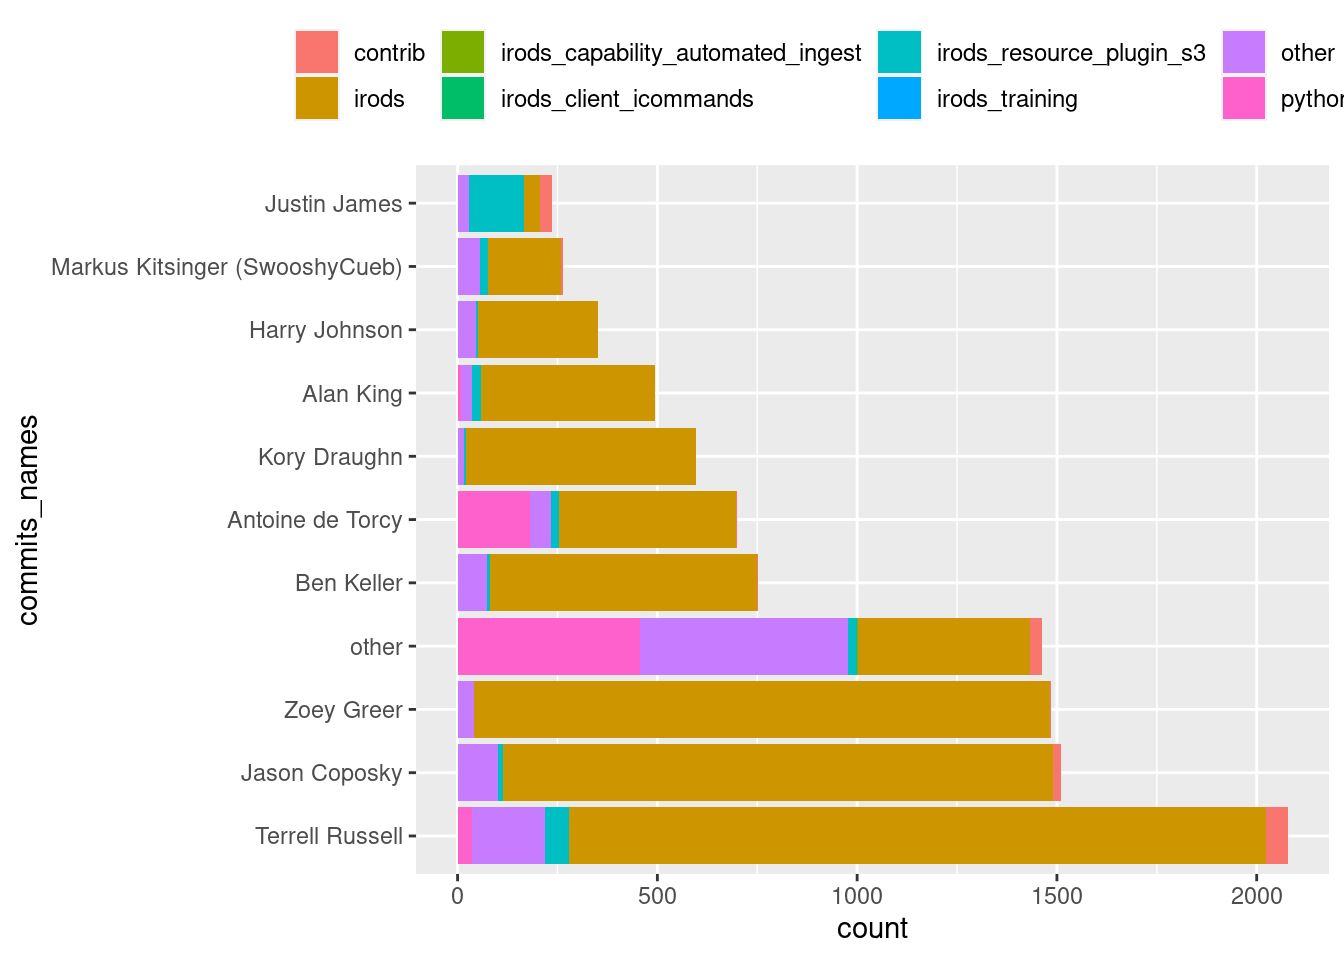
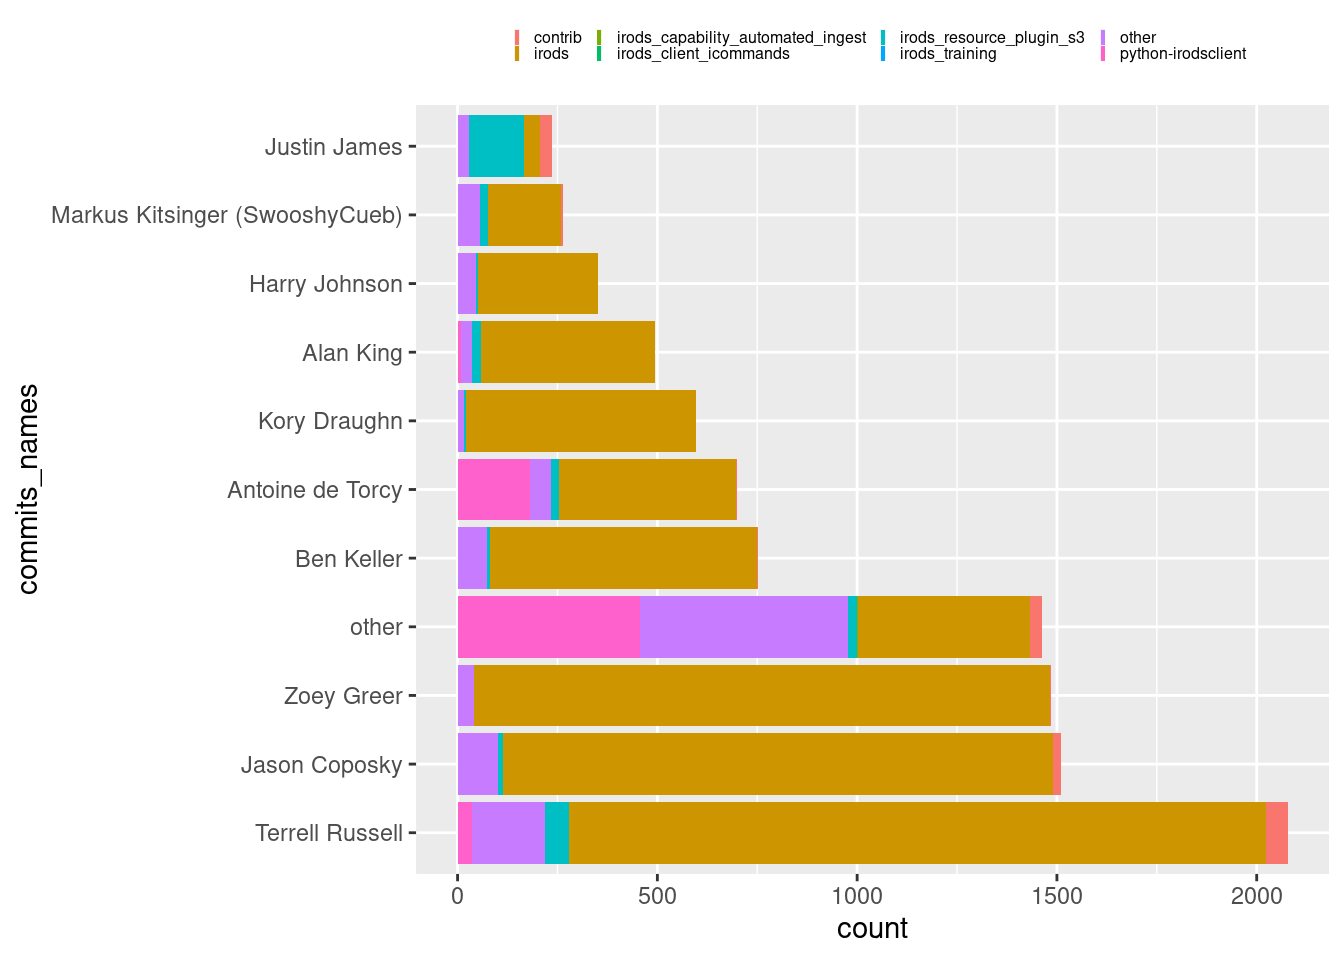
Built site for gh-pages

diff --git a/posts/welcome/index.html b/posts/welcome/index.html
@@ -257,14 +257,17 @@ iauth("martin", "secret")</code></pre>
 <p>This makes the data discoverable by others on the iRODS server. Hence <code>rirods</code> not only helps you store data, but it also makes sharing data with your peers more straightforward.</p>
 <p>As it seems you were not yet done with your analysis of the commit history of iRODS. You put considerable effort in creating an informative plot, which lists commits according to most popular repositories.</p>
 <div class="cell">
-<div class="sourceCode cell-code" id="cb9"><pre class="sourceCode r code-with-copy"><code class="sourceCode r"><span id="cb9-1"><a href="#cb9-1" aria-hidden="true" tabindex="-1"></a>plot_commits <span class="ot">&lt;-</span> commits <span class="sc">|&gt;</span> </span>
-<span id="cb9-2"><a href="#cb9-2" aria-hidden="true" tabindex="-1"></a>  <span class="fu">mutate</span>(</span>
-<span id="cb9-3"><a href="#cb9-3" aria-hidden="true" tabindex="-1"></a>    <span class="at">names =</span> <span class="fu">if_else</span>(stargazers_count <span class="sc">&gt;</span> <span class="dv">10</span>, names, <span class="st">"other"</span>)</span>
-<span id="cb9-4"><a href="#cb9-4" aria-hidden="true" tabindex="-1"></a>  ) <span class="sc">|&gt;</span> </span>
-<span id="cb9-5"><a href="#cb9-5" aria-hidden="true" tabindex="-1"></a>    <span class="fu">ggplot</span>(<span class="fu">aes</span>(<span class="at">x =</span> commits_names, <span class="at">fill =</span> names)) <span class="sc">+</span> </span>
-<span id="cb9-6"><a href="#cb9-6" aria-hidden="true" tabindex="-1"></a>      <span class="fu">geom_bar</span>(<span class="at">position =</span> <span class="st">"stack"</span>) <span class="sc">+</span> </span>
-<span id="cb9-7"><a href="#cb9-7" aria-hidden="true" tabindex="-1"></a>      <span class="fu">coord_flip</span>() <span class="sc">+</span></span>
-<span id="cb9-8"><a href="#cb9-8" aria-hidden="true" tabindex="-1"></a>      <span class="fu">theme</span>(<span class="at">legend.position =</span> <span class="st">"top"</span>, <span class="at">legend.title =</span> <span class="fu">element_blank</span>(), <span class="at">legend.text=</span><span class="fu">element_text</span>(<span class="at">size =</span> <span class="dv">9</span>))</span></code><button title="Copy to Clipboard" class="code-copy-button"><i class="bi"></i></button></pre></div>
+<div class="sourceCode cell-code" id="cb9"><pre class="sourceCode r code-with-copy"><code class="sourceCode r"><span id="cb9-1"><a href="#cb9-1" aria-hidden="true" tabindex="-1"></a>plot_commits <span class="ot">&lt;-</span> commits <span class="sc">|&gt;</span></span>
+<span id="cb9-2"><a href="#cb9-2" aria-hidden="true" tabindex="-1"></a>  <span class="fu">mutate</span>(<span class="at">names =</span> <span class="fu">if_else</span>(stargazers_count <span class="sc">&gt;</span> <span class="dv">10</span>, names, <span class="st">"other"</span>)) <span class="sc">|&gt;</span></span>
+<span id="cb9-3"><a href="#cb9-3" aria-hidden="true" tabindex="-1"></a>  <span class="fu">ggplot</span>(<span class="fu">aes</span>(<span class="at">x =</span> commits_names, <span class="at">fill =</span> names)) <span class="sc">+</span></span>
+<span id="cb9-4"><a href="#cb9-4" aria-hidden="true" tabindex="-1"></a>    <span class="fu">geom_bar</span>(<span class="at">position =</span> <span class="st">"stack"</span>) <span class="sc">+</span></span>
+<span id="cb9-5"><a href="#cb9-5" aria-hidden="true" tabindex="-1"></a>    <span class="fu">coord_flip</span>() <span class="sc">+</span></span>
+<span id="cb9-6"><a href="#cb9-6" aria-hidden="true" tabindex="-1"></a>    <span class="fu">theme</span>(</span>
+<span id="cb9-7"><a href="#cb9-7" aria-hidden="true" tabindex="-1"></a>      <span class="at">legend.position =</span> <span class="st">"top"</span>,</span>
+<span id="cb9-8"><a href="#cb9-8" aria-hidden="true" tabindex="-1"></a>      <span class="at">legend.title =</span> <span class="fu">element_blank</span>(),</span>
+<span id="cb9-9"><a href="#cb9-9" aria-hidden="true" tabindex="-1"></a>      <span class="at">legend.key.size =</span> <span class="fu">unit</span>(<span class="dv">2</span>, <span class="st">"point"</span>),</span>
+<span id="cb9-10"><a href="#cb9-10" aria-hidden="true" tabindex="-1"></a>      <span class="at">legend.text =</span> <span class="fu">element_text</span>(<span class="at">size =</span> <span class="dv">6</span>)</span>
+<span id="cb9-11"><a href="#cb9-11" aria-hidden="true" tabindex="-1"></a>    )</span></code><button title="Copy to Clipboard" class="code-copy-button"><i class="bi"></i></button></pre></div>
 </div>
 <p>This is also no problem for <code>rirods</code>, as long as we deal with an R object, we can store it in iRODS.</p>
 <div class="cell">

diff --git a/index.html b/index.html
@@ -169,7 +169,7 @@ ul.task-list li input[type="checkbox"] {
 
 <div class="quarto-listing quarto-listing-container-default" id="listing-listing">
 <div class="list quarto-listing-default">
-<div class="quarto-post image-right" data-index="0" data-categories="news" data-listing-date-sort="NaN" data-listing-file-modified-sort="1685977803326" data-listing-date-modified-sort="NaN" data-listing-reading-time-sort="4">
+<div class="quarto-post image-right" data-index="0" data-categories="news" data-listing-date-sort="NaN" data-listing-file-modified-sort="1685980831586" data-listing-date-modified-sort="NaN" data-listing-reading-time-sort="4">
 <div class="thumbnail">
 <p><a href="./posts/welcome/index.html"> <p class="card-img-top"><img src="posts/welcome/index_files/figure-html/unnamed-chunk-2-1.png"  class="thumbnail-image card-img"/></p> </a></p>
 </div>
